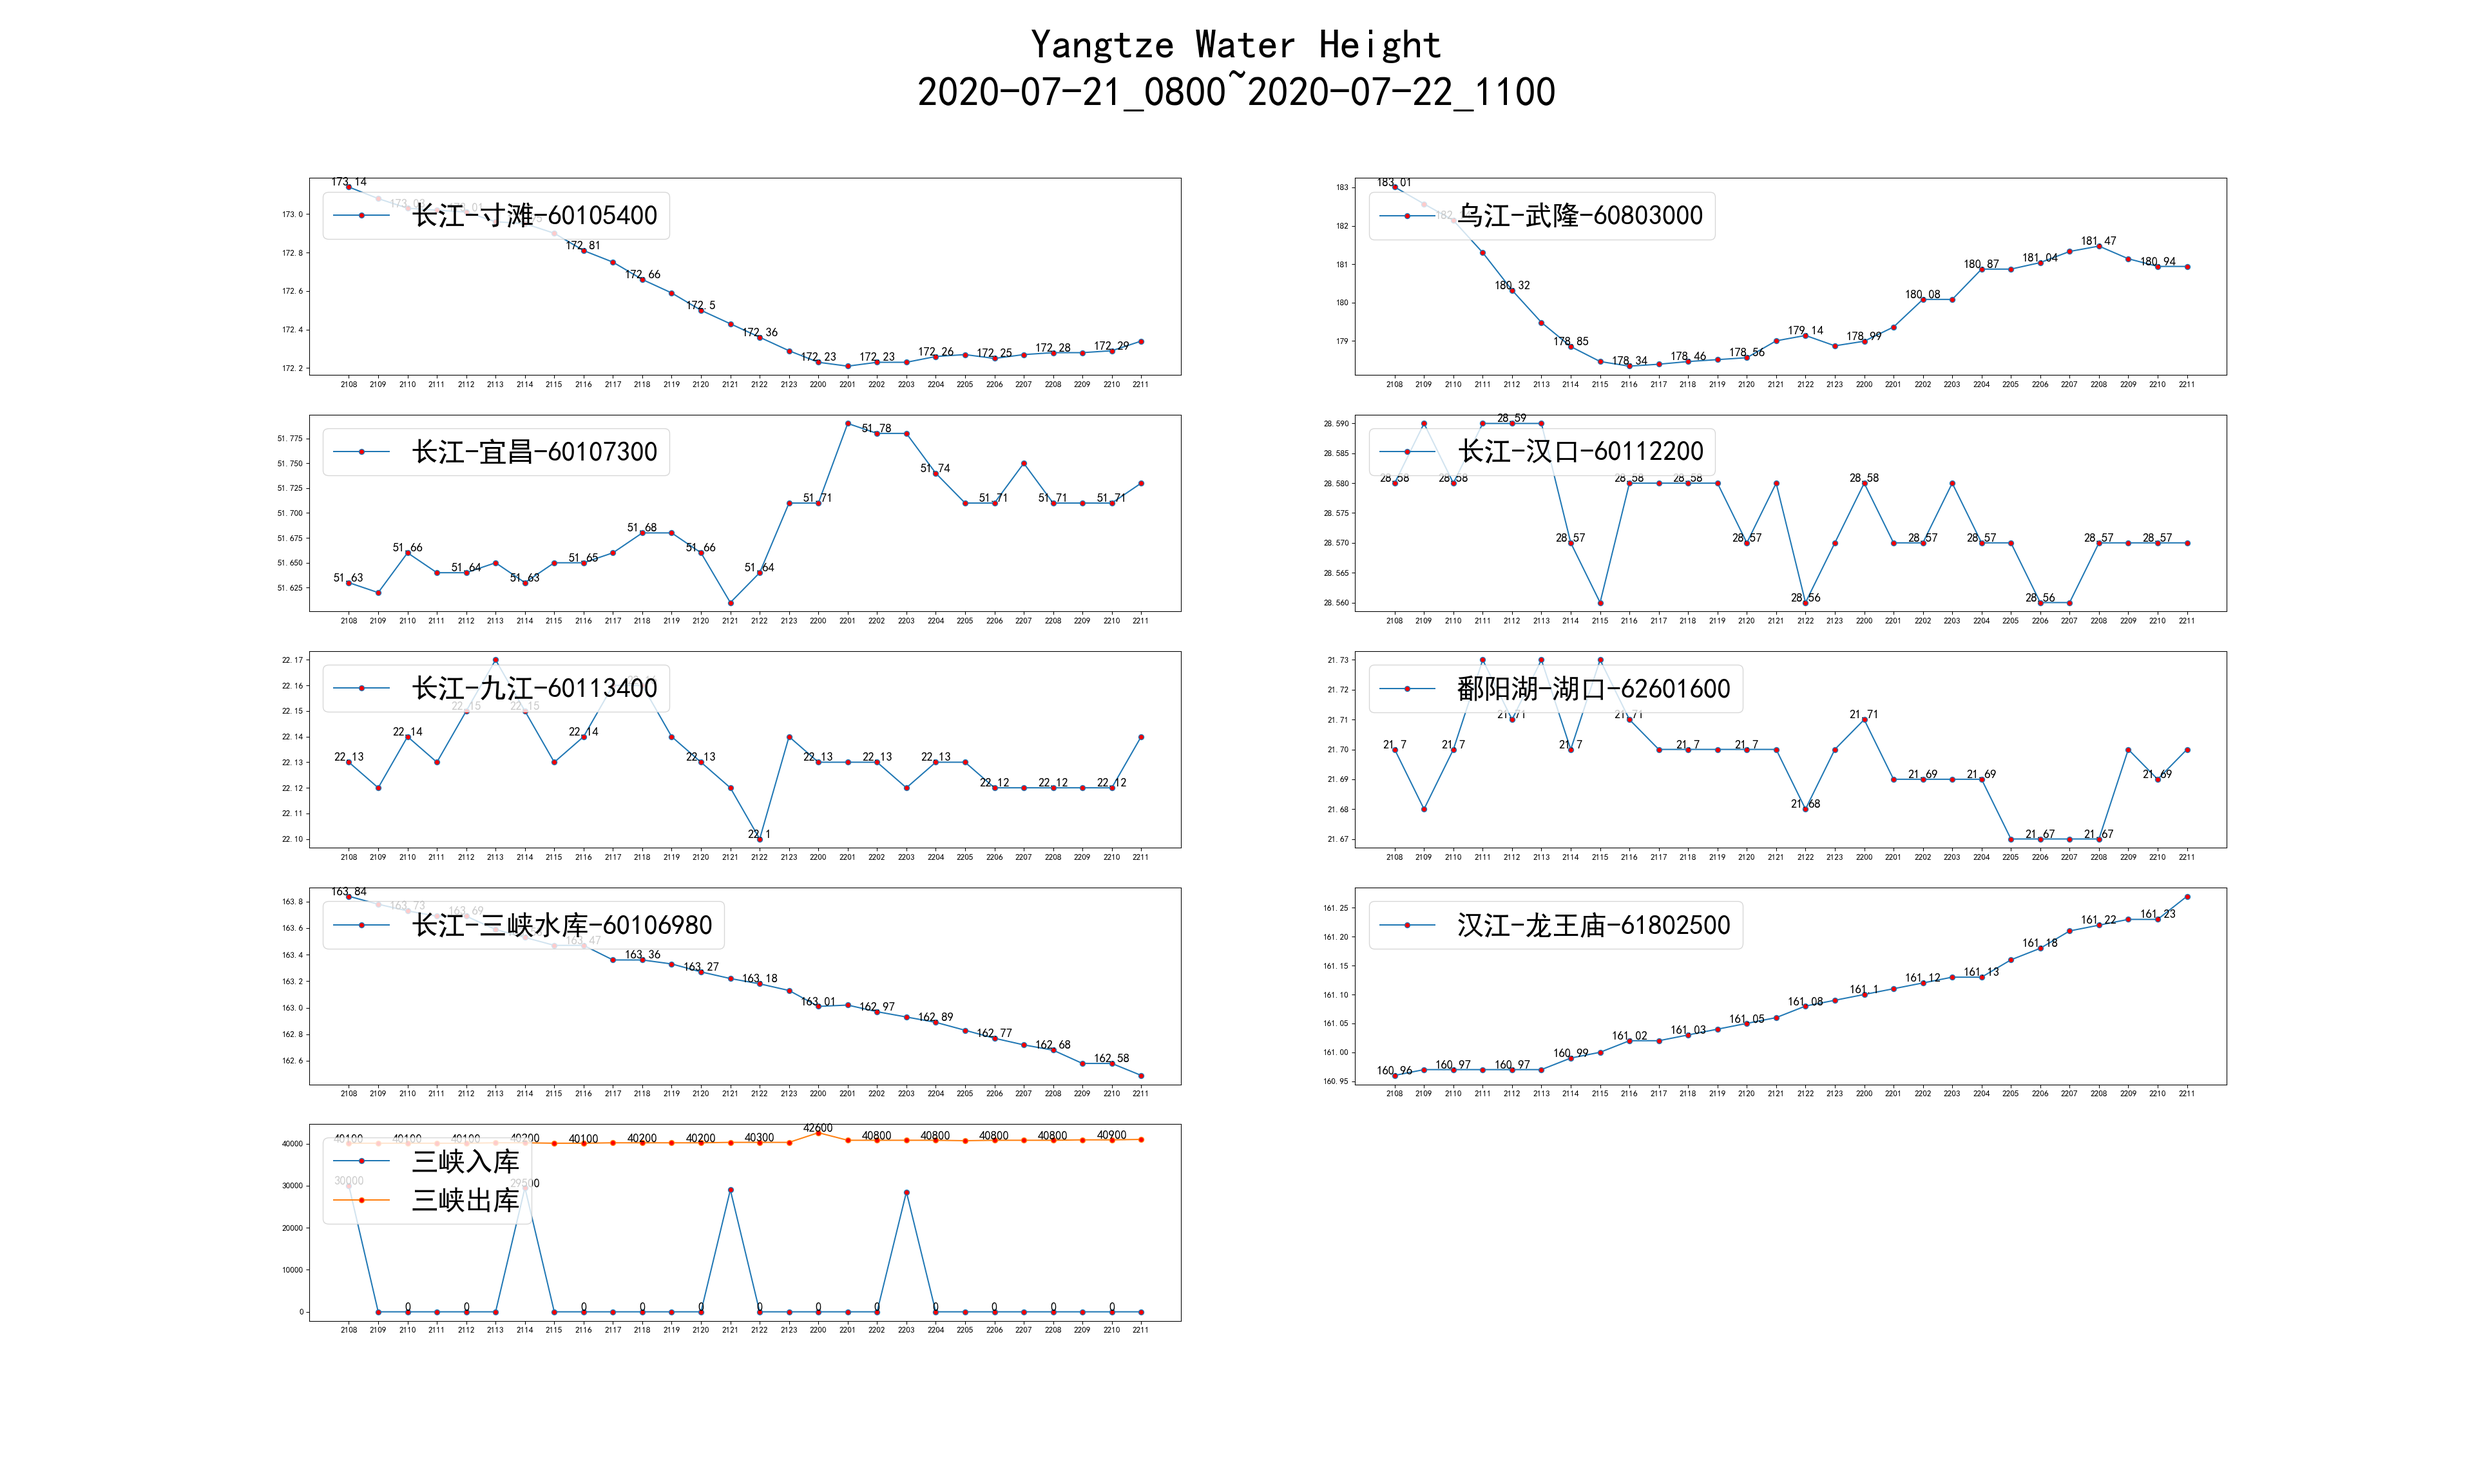
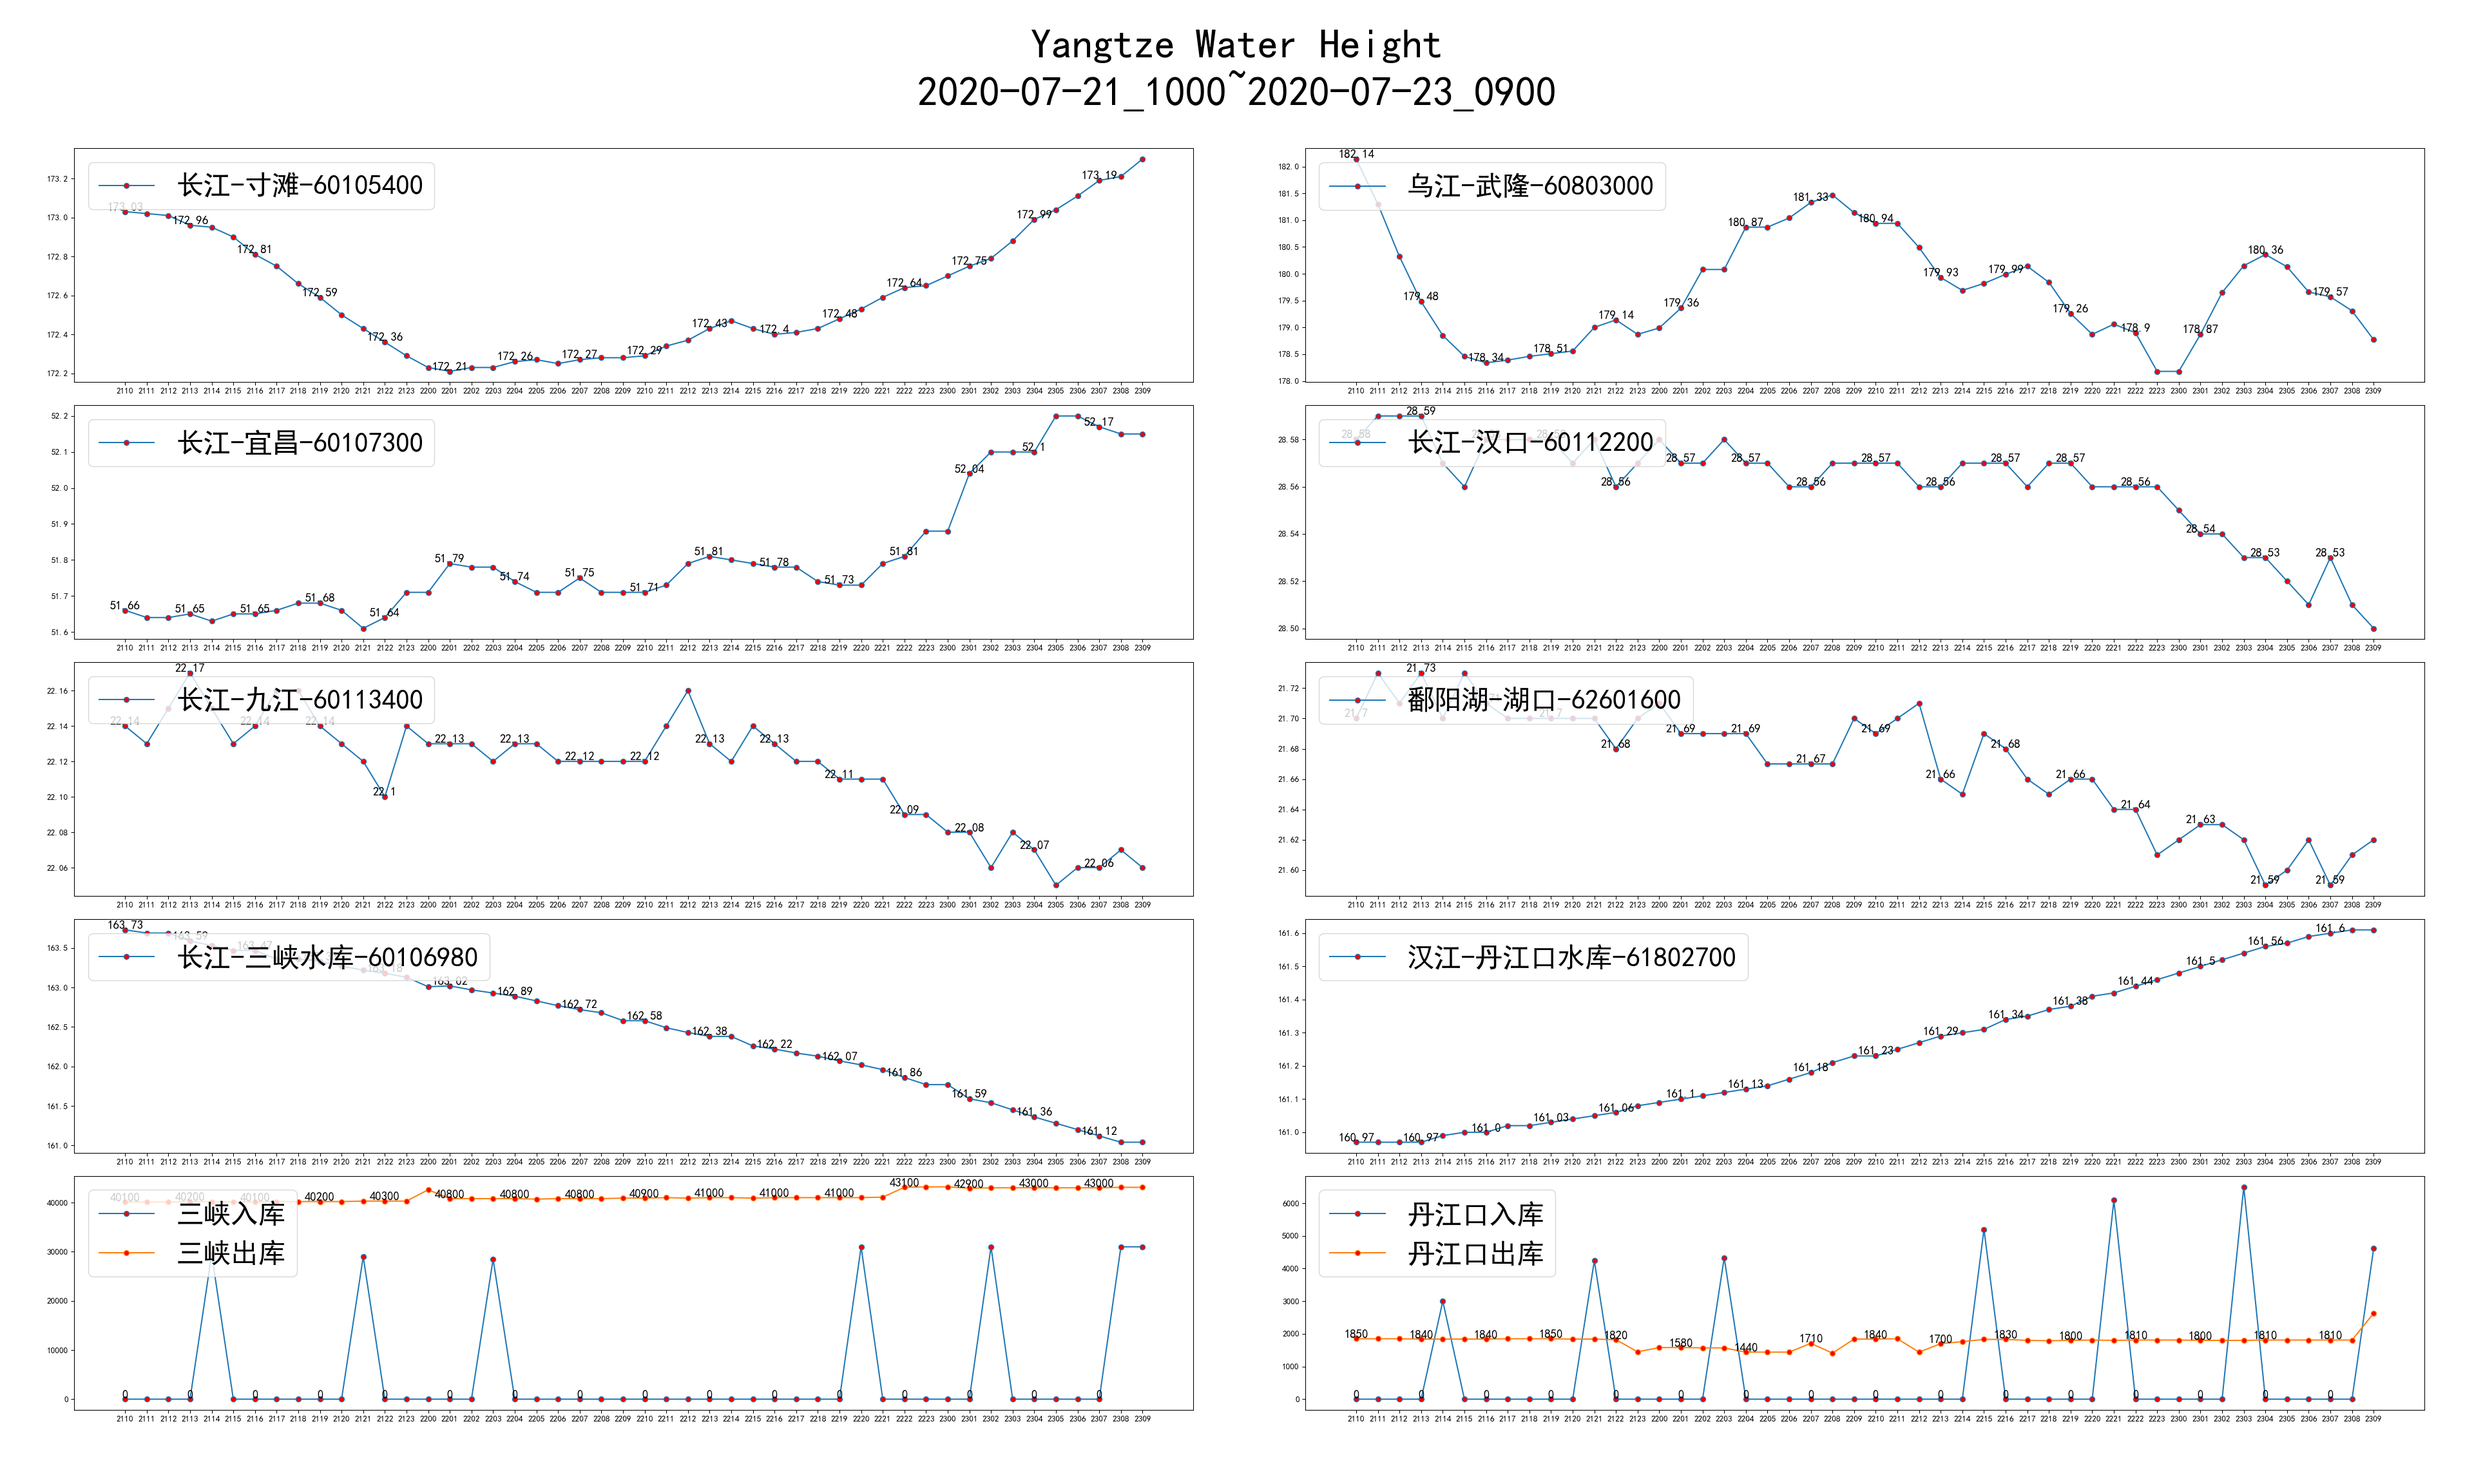
调整绘图信息； 更新readme;

diff --git a/water.py b/water.py
@@ -1,96 +1,133 @@
 import requests
-import re, os, json, time, glob, math, sys 
+import re
+import os
+import json
+import time
+import glob
+import math
+import sys
 import matplotlib.pyplot as plt
 from datetime import datetime
+
 
 def download():
     cjh = 'http://www.cjh.com.cn/sqindex.html'
     headers = {
         'User-Agent': 'Mozilla/5.0 (Windows NT 10.0; Win64; x64) AppleWebKit/537.36 (KHTML, like Gecko) Chrome/84.0.4147.89 Safari/537.36'
-        }
+    }
     response = requests.get(cjh, headers=headers)
     # print(response.text)
-    water = json.loads(re.search(r'var\ssssq\s=( \[.+\]);', response.text).group(1))
-    
+    water = json.loads(
+        re.search(r'var\ssssq\s=( \[.+\]);', response.text).group(1))
+
     fname = f'datas/{time.strftime("%Y-%m-%d_%H%M", time.localtime(water[0]["tm"]/1000))}.json'
     if os.path.exists(fname):
-        return True
+        return False
     with open(fname, 'w', encoding='utf-8') as f:
         json.dump(water, f, ensure_ascii=False)
     return True
 
-def text(lx, ly):
-    for x, y in zip(lx, ly):  
-        plt.text(x, y, y,ha='center', va='bottom', fontsize=14) 
 
-def plot(last = 48, st = None):
+def text(lx, ly):
+    for x, y in zip(lx, ly):
+        plt.text(x, y, y, ha='center', va='bottom', fontsize=14)
+
+
+def plot(last=48, st=None):
     '''
     last:过去last小时的水位，默认48\n
     st:  绘图的水文站列表。默认None，全部绘制
     '''
     datas = dict()
     for d in glob.glob("datas/*.json"):
-        datas[int(d.replace('-','').replace('_','')[6:-7])] = d
+        datas[int(d.replace('-', '').replace('_', '')[6:-7])] = d
 
-    lastx=[]
-    lasty={}
-    sxq=[]
-    sxoq=[]
+    lastx = []
+    lasty = {}
+    sxq = []
+    sxoq = []
+    hjq = []
+    hjoq = []
     pdatas = sorted(datas)[-48:]
     for fd in pdatas:
-        d={}
+        d = {}
         with open(datas[fd], 'r', encoding='utf-8') as f:
-            d=json.load(f)
-        
+            d = json.load(f)
+
         lastx.append(time.strftime("%d%H", time.localtime(d[0]["tm"]/1000)))
         for s in d:
             if st is None or s['stcd'] in st:
                 if not s['stcd'] in lasty.keys():
-                    lasty[s['stcd']] = {'stcd':s['stcd'], 'name':f'{s["rvnm"]}-{s["stnm"]}', 'z':[]}
-                lasty[s['stcd']]['z'].append(round(float(s['z']),2))
-                if s['stcd'] == '60106980': # 三峡流量
+                    lasty[s['stcd']] = {
+                        'stcd': s['stcd'], 'name': f'{s["rvnm"]}-{s["stnm"]}', 'z': []}
+                lasty[s['stcd']]['z'].append(round(float(s['z']), 2))
+                if s['stcd'] == '60106980':  # 三峡流量
                     sxq.append(int(s['q']))
                     sxoq.append(int(s['oq']))
-    #print(lasty)
+                if s['stcd'] == '61802700':  # 丹江口水库流量
+                    hjq.append(int(s['q']))
+                    hjoq.append(int(s['oq']))
+    # print(lasty)
 
     # plot
-    plt.figure(figsize=(40,24))
+    plt.figure(figsize=(40, 24))
+    plt.subplots_adjust(left=0.03, right=0.98, top=0.9,
+                        bottom=0.05, hspace=0.1, wspace=0.1)  # 设置绘图区占比
     plt.rcParams['font.sans-serif'] = ['SimHei']
     plt.rcParams['axes.unicode_minus'] = False  # 支持中文
     plt.xlabel('Time')
     plt.ylabel('Height/m')
-    plt.suptitle(f'Yangtze Water Height\n{datas[pdatas[0]][6:-5]}~{datas[pdatas[-1]][6:-5]}', fontsize=48)
+    plt.suptitle(
+        f'Yangtze Water Height\n{datas[pdatas[0]][6:-5]}~{datas[pdatas[-1]][6:-5]}', fontsize=48)
 
-    n = len(lasty) + 1
+    step = 1
+    while True:
+        if last / step > 20:
+            step += 1
+        else:
+            break
+    n = len(lasty) + 2
     n = math.ceil(n / 2)
     i = 1
     for s in lasty.values():
         plt.subplot(n, 2, i)
-        plt.plot(lastx, s['z'], label=f"{s['name']}-{s['stcd']}", markerfacecolor='r',marker='o')
+        plt.plot(
+            lastx, s['z'], label=f"{s['name']}-{s['stcd']}", markerfacecolor='r', marker='o')
         plt.legend(loc='upper left', fontsize=32)
-        text(lastx[::2], s['z'][::2])
-        # plt.xticks(rotation=45)
-        # plt.yticks(rotation=30)
+        text(lastx[::step], s['z'][::step])
         i += 1
+
     # 三峡出入库
     plt.subplot(n, 2, i)
-    plt.plot(lastx, sxq, label="三峡入库", markerfacecolor='r',marker='o')
-    plt.plot(lastx, sxoq, label="三峡出库", markerfacecolor='r',marker='o')
+    plt.plot(lastx, sxq, label="三峡入库", markerfacecolor='r', marker='o')
+    plt.plot(lastx, sxoq, label="三峡出库", markerfacecolor='r', marker='o')
     plt.legend(loc='upper left', fontsize=32)
-    text(lastx[::2], sxq[::2])
-    text(lastx[::2], sxoq[::2])
+    text(lastx[::step], sxq[::step])
+    text(lastx[::step], sxoq[::step])
+    i += 1
+
+    # 丹江口出入库
+    plt.subplot(n, 2, i)
+    plt.plot(lastx, hjq, label="丹江口入库", markerfacecolor='r', marker='o')
+    plt.plot(lastx, hjoq, label="丹江口出库", markerfacecolor='r', marker='o')
+    plt.legend(loc='upper left', fontsize=32)
+    text(lastx[::step], hjq[::step])
+    text(lastx[::step], hjoq[::step])
 
     plt.savefig('last.png', dpi=96)
     # plt.show()
 
+
 if __name__ == "__main__":
     print(f"run at {datetime.now().strftime('%Y-%m-%d %H:%M:%S')}")
     if download():
-        #       寸滩          宜昌        汉口        九江        鄱阳湖     三峡水库       乌江	   龙王庙
-        st = ['60105400', '60107300', '60112200', '60113400', '62601600', '60106980', '60803000', '61802500' ]
+        #       寸滩          宜昌        汉口        九江
+        st = ['60105400', '60107300', '60112200', '60113400',
+              '62601600', '60106980', '60803000', '61802700']
+        #        鄱阳湖     三峡水库      乌江	    丹江口水库
         plot(48, st)
-        
-    if len(sys.argv)>1:
+
+    if len(sys.argv) > 1:
         from PIL import Image
         im = Image.open('last.png')
         im.show()

diff --git a/readme.md b/readme.md
@@ -1,12 +1,12 @@
 # 长江实时水情
 
-长江水文网每小时发布实时水情
+长江水文网每小时发布实时水情，本程序采集重要水文站水情，绘制最近几天（48小时）的水位图
 
-本程序采集重要水文站水情，绘制最近48小时[水位图](last.png)
-
-建议每半小时采集一次
+建议每半小时采集一次，Windows用户可以使用`任务计划程序`
 
 本程序使用MIT协议，欢迎有资源的朋友部署到服务器，定时执行
+
+![水位图](last.png)
 
 ## 链接
 
